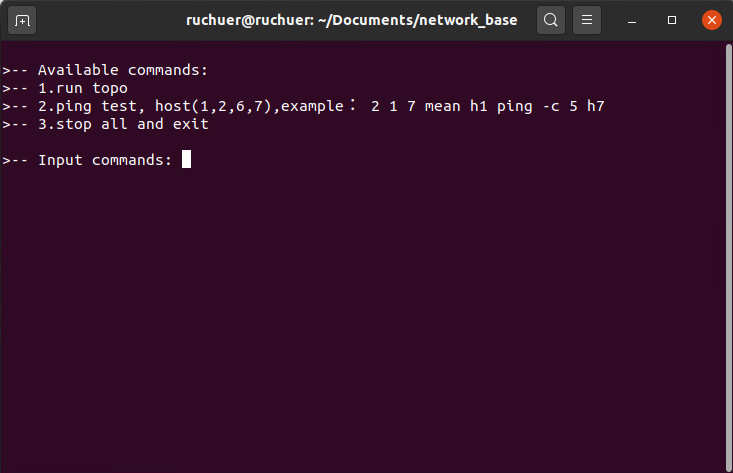
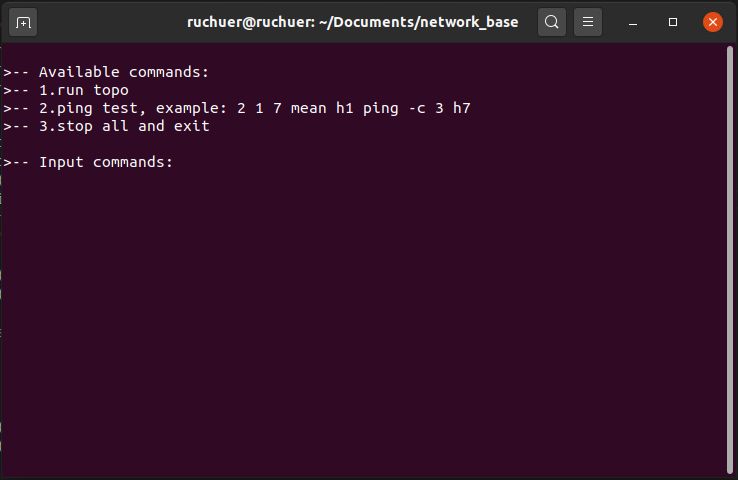
finish

diff --git a/cli.py b/cli.py
@@ -15,7 +15,7 @@ class cli:
             try:
                 print("\n>-- Available commands:\n"
                     ">-- 1.run topo\n"
-                    ">-- 2.ping test, example： 2 1 7 mean h1 ping -c 5 h7\n"
+                    ">-- 2.ping test, example: 2 1 7 mean h1 ping -c 3 h7\n"
                     ">-- 3.stop all and exit\n"
                     )
 
@@ -38,7 +38,7 @@ class cli:
                     if(len(command) != 3):
                         print(">-- 请正确输入！\n")
                     else:
-                        os.system("sudo docker exec -it h{} ping -c 5 154.0.{}.2".format(int(command[1]), int(command[2])))
+                        os.system("sudo docker exec -it h{} ping -c 3 154.0.{}.2".format(int(command[1]), int(command[2])))
 
                 if(int(command[0]) == 3):
                     if(self.is_bulid):

diff --git a/topo_build.py b/topo_build.py
@@ -119,6 +119,7 @@ def gen_config_rt(node, filename, tp: topo):
 
 
 if __name__ == '__main__' :
+    # 创建topo类对象，获取拓扑信息
     tp = topo()
 
     # 创建容器
